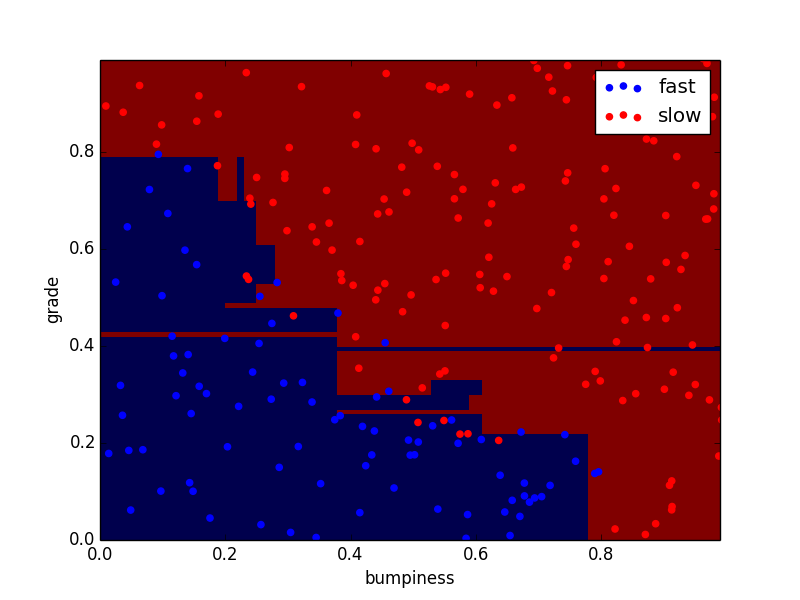
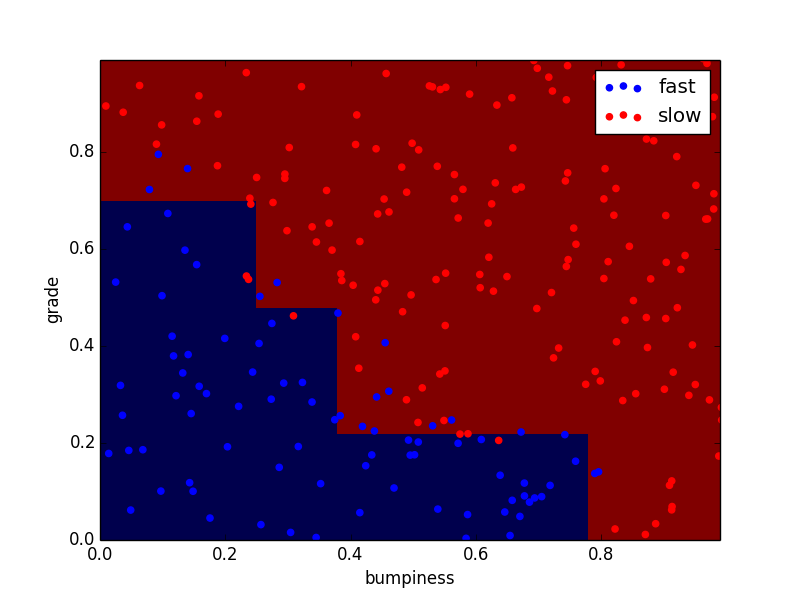
changed min sample size

diff --git a/classifyDT.py b/classifyDT.py
@@ -2,7 +2,7 @@ from sklearn import tree
 
 def classify(features_train, labels_train):
     ### your code goes here--should return a trained decision tree classifer
-    clf = tree.DecisionTreeClassifier()
+    clf = tree.DecisionTreeClassifier(min_samples_split=50)
     clf.fit(features_train, labels_train)
     clf.predict(features_train)
 

diff --git a/README.md b/README.md
@@ -2,4 +2,8 @@
 
 A decision tree!
 
+##### Default settings
+![Alt text](org.png "Optional Title")
+
+##### Default settings
 ![Alt text](test.png "Optional Title")
